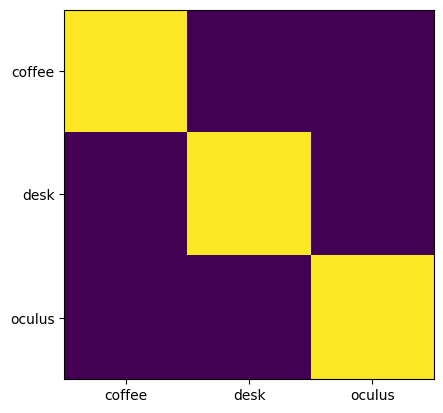
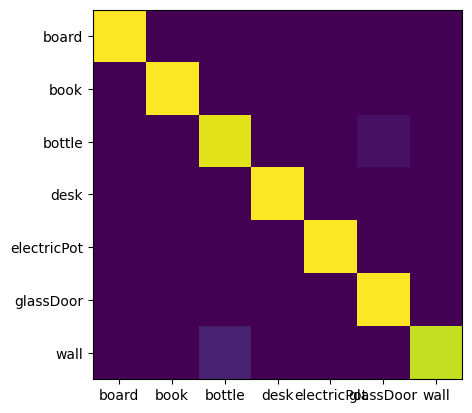
make full-automatic in any direction

Changed region(s): [[0.0293, 0.0, 0.9977, 0.9879], [0.2054, 0.9298, 0.4108, 0.9879]]

diff --git a/results_webpage/index.html b/results_webpage/index.html
@@ -96,7 +96,7 @@
     <img src="confusion_matrix.png">
 
     <br>
-    Accuracy (mean of diagonal of confusion matrix) is 1.000
+    Accuracy (mean of diagonal of confusion matrix) is 0.981
     <p>
 
     <table border=0 cellpadding=4 cellspacing=1>
@@ -123,15 +123,41 @@
       </tr>
       -->
       <tr class="category-row">
-<td>coffee</td>
+<td>board</td>
 <td><div>1.000</div><div class="accuracy-bar" style="width:64px;"><div style="width:64.00px;"/></div></td>
-<td class="training"><img src="thumbnails/coffee_image.jpg" width=104 height=75></td>
-<td class="training"><img src="thumbnails/coffee_image.jpg" width=104 height=75></td>
-<td class="true-positive"><img src="thumbnails/coffee_image.jpg" width=104 height=75></td>
-<td class="true-positive"><img src="thumbnails/coffee_image.jpg" width=104 height=75></td>
+<td class="training"><img src="thumbnails/board_image.jpg" width=104 height=75></td>
+<td class="training"><img src="thumbnails/board_image.jpg" width=104 height=75></td>
+<td class="true-positive"><img src="thumbnails/board_image.jpg" width=104 height=75></td>
+<td class="true-positive"><img src="thumbnails/board_image.jpg" width=104 height=75></td>
 <td class="cell false-positive"></td>
 <td class="cell false-positive"></td>
 <td class="cell false-negative"></td>
+<td class="cell false-negative"></td>
+</tr>
+
+<tr class="category-row">
+<td>book</td>
+<td><div>1.000</div><div class="accuracy-bar" style="width:64px;"><div style="width:64.00px;"/></div></td>
+<td class="training"><img src="thumbnails/book_image.jpg" width=104 height=75></td>
+<td class="training"><img src="thumbnails/book_image.jpg" width=104 height=75></td>
+<td class="true-positive"><img src="thumbnails/book_image.jpg" width=104 height=75></td>
+<td class="true-positive"><img src="thumbnails/book_image.jpg" width=104 height=75></td>
+<td class="cell false-positive"></td>
+<td class="cell false-positive"></td>
+<td class="cell false-negative"></td>
+<td class="cell false-negative"></td>
+</tr>
+
+<tr class="category-row">
+<td>bottle</td>
+<td><div>0.955</div><div class="accuracy-bar" style="width:64px;"><div style="width:61.09px;"/></div></td>
+<td class="training"><img src="thumbnails/bottle_image.jpg" width=104 height=75></td>
+<td class="training"><img src="thumbnails/bottle_image.jpg" width=104 height=75></td>
+<td class="true-positive"><img src="thumbnails/bottle_image.jpg" width=104 height=75></td>
+<td class="true-positive"><img src="thumbnails/bottle_image.jpg" width=104 height=75></td>
+<td class="false-positive"><img src="thumbnails/bottle_image.jpg" width=104 height=75><br><small>wall</small></td>
+<td class="false-positive"><img src="thumbnails/bottle_image.jpg" width=104 height=75><br><small>wall</small></td>
+<td class="false-negative"><img src="thumbnails/bottle_image.jpg" width=104 height=75><br><small>glassDoor</small></td>
 <td class="cell false-negative"></td>
 </tr>
 
@@ -149,16 +175,42 @@
 </tr>
 
 <tr class="category-row">
-<td>oculus</td>
+<td>electricPot</td>
 <td><div>1.000</div><div class="accuracy-bar" style="width:64px;"><div style="width:64.00px;"/></div></td>
-<td class="training"><img src="thumbnails/oculus_image.jpg" width=104 height=75></td>
-<td class="training"><img src="thumbnails/oculus_image.jpg" width=104 height=75></td>
-<td class="true-positive"><img src="thumbnails/oculus_image.jpg" width=104 height=75></td>
-<td class="true-positive"><img src="thumbnails/oculus_image.jpg" width=104 height=75></td>
+<td class="training"><img src="thumbnails/electricPot_image.jpg" width=104 height=75></td>
+<td class="training"><img src="thumbnails/electricPot_image.jpg" width=104 height=75></td>
+<td class="true-positive"><img src="thumbnails/electricPot_image.jpg" width=104 height=75></td>
+<td class="true-positive"><img src="thumbnails/electricPot_image.jpg" width=104 height=75></td>
 <td class="cell false-positive"></td>
 <td class="cell false-positive"></td>
 <td class="cell false-negative"></td>
 <td class="cell false-negative"></td>
+</tr>
+
+<tr class="category-row">
+<td>glassDoor</td>
+<td><div>1.000</div><div class="accuracy-bar" style="width:64px;"><div style="width:64.00px;"/></div></td>
+<td class="training"><img src="thumbnails/glassDoor_image.jpg" width=104 height=75></td>
+<td class="training"><img src="thumbnails/glassDoor_image.jpg" width=104 height=75></td>
+<td class="true-positive"><img src="thumbnails/glassDoor_image.jpg" width=104 height=75></td>
+<td class="true-positive"><img src="thumbnails/glassDoor_image.jpg" width=104 height=75></td>
+<td class="false-positive"><img src="thumbnails/glassDoor_image.jpg" width=104 height=75><br><small>bottle</small></td>
+<td class="cell false-positive"></td>
+<td class="cell false-negative"></td>
+<td class="cell false-negative"></td>
+</tr>
+
+<tr class="category-row">
+<td>wall</td>
+<td><div>0.909</div><div class="accuracy-bar" style="width:64px;"><div style="width:58.18px;"/></div></td>
+<td class="training"><img src="thumbnails/wall_image.jpg" width=104 height=75></td>
+<td class="training"><img src="thumbnails/wall_image.jpg" width=104 height=75></td>
+<td class="true-positive"><img src="thumbnails/wall_image.jpg" width=104 height=75></td>
+<td class="true-positive"><img src="thumbnails/wall_image.jpg" width=104 height=75></td>
+<td class="cell false-positive"></td>
+<td class="cell false-positive"></td>
+<td class="false-negative"><img src="thumbnails/wall_image.jpg" width=104 height=75><br><small>bottle</small></td>
+<td class="false-negative"><img src="thumbnails/wall_image.jpg" width=104 height=75><br><small>bottle</small></td>
 </tr>
 
       <tr>

diff --git a/src/main.py b/src/main.py
@@ -32,8 +32,8 @@ def main():
     initialize()
     print("Initializing done.")
 
-    print(f"Running SVM with {testRatio} test ratio by {iteration} times...")
     if isSavingToCSV:
+        print(f"Running SVM with {testRatio} test ratio by {iteration} times...")
         for ctg in categories:
             outputFile.write(f"{ctg}-precision,{ctg}-recall,{ctg}-f1,")
         outputFile.write("total-accuracy\n")

diff --git a/src/create_results_webpage.py b/src/create_results_webpage.py
@@ -47,8 +47,8 @@ def create_results_webpage(
     # Visualization of confusion matrix
     plt.figure()
     plt.imshow(confusion_matrix)
-    plt.xticks(range(3), abbr_categories)
-    plt.yticks(range(3), categories)
+    plt.xticks(range(len(categories)), abbr_categories)
+    plt.yticks(range(len(categories)), categories)
 
     plt.savefig("results_webpage/confusion_matrix.png", bbox_inches="tight")
 

diff --git a/src/choppa.py b/src/choppa.py
@@ -55,6 +55,3 @@ def chopAllSamples(dirName):
 
 if __name__ == "__main__":
     chopAllSamples("originalAudios")
-    # chopSample("oculus.wav")
-    # chopSample("desk.wav")
-    # chopSample("coffee.wav")
